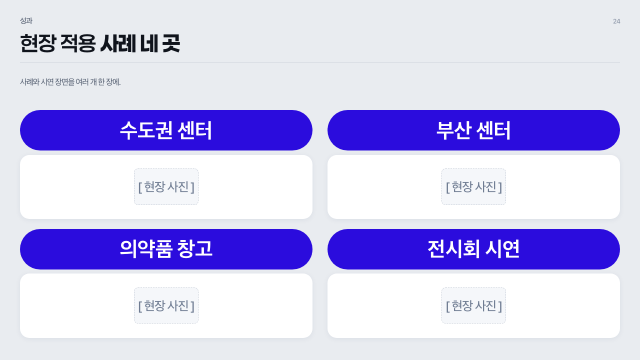
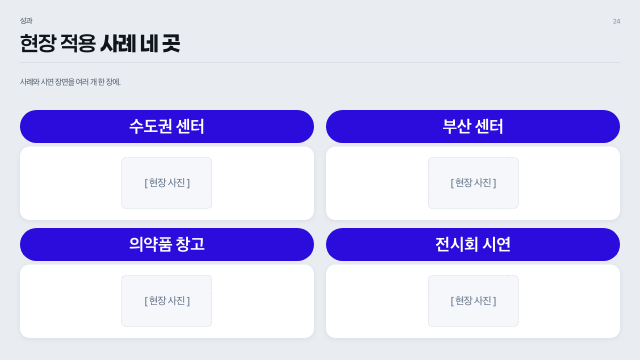
본문 배율 최대값 1.9 → 1.3: 내용이 적어도 글자가 지나치게 커지지 않게

diff --git a/docs/templates/deck.html b/docs/templates/deck.html
@@ -21,7 +21,7 @@ deck-stage:not(:defined){visibility:hidden;}
   --font-title:'Paperlogy 6 SemiBold','Pretendard','Apple SD Gothic Neo','Malgun Gothic','맑은 고딕','Noto Sans KR',sans-serif;
   --font-title-b:'Paperlogy 8 ExtraBold','Pretendard','Apple SD Gothic Neo','Malgun Gothic','맑은 고딕','Noto Sans KR',sans-serif;
   --cover-badge:#4533AF;
-  --kmax:1.9;
+  --kmax:1.3;
 }
 /* --k: per-slide body scale from fit_slides.mjs. Header/title/lead are fixed. */
 .slide{--k:1;
@@ -258,7 +258,7 @@ table.rt{width:100%;border-collapse:collapse;font-size:calc(var(--fs-table) * va
       </div>
     </div>
   </section>
-<section class="slide" data-label="1-1 냉장 물류 관제 **한 가지에 집중**하는 회사" id="s4" data-fit="1" style="--k: 1.7876953125;" style="--k:1.78">
+<section class="slide" data-label="1-1 냉장 물류 관제 **한 가지에 집중**하는 회사" id="s4" data-fit="1" style="--k: 1.3;" style="--k:1.3">
     <div class="top"><div class="eyebrow"><span>사업 개요</span><span class="pgno">4</span></div><div class="stitle">냉장 물류 관제 <b>한 가지에 집중</b>하는&nbsp;회사</div><div class="rule"></div><div class="slead">회사 소개서 첫 본문. 왼쪽은 소개, 오른쪽은 규모를 보여 주는&nbsp;수치.</div></div>
     <div class="body" style="--body-top:220px;--safe-bottom:44px"><div class="blk" style="flex:1 1 0"><div class="inner"><div class="grid" style="grid-template-columns:1fr 1fr">
       <div class="card "><div class="cap">회사&nbsp;소개</div><div class="bd">
@@ -271,7 +271,7 @@ table.rt{width:100%;border-collapse:collapse;font-size:calc(var(--fs-table) * va
       </div></div></div></div></div></div>
     
   </section>
-<section class="slide" data-label="1-2 과제 배경과 **목표 네 가지**" id="s5" data-fit="1" style="--k: 1.4822265625000002;" style="--k:1.48">
+<section class="slide" data-label="1-2 과제 배경과 **목표 네 가지**" id="s5" data-fit="1" style="--k: 1.3;" style="--k:1.3">
     <div class="top"><div class="eyebrow"><span>사업 개요</span><span class="pgno">5</span></div><div class="stitle">과제 배경과 <b>목표 네&nbsp;가지</b></div><div class="rule"></div><div class="slead">과제 배경을 목표 네 개로 묶고, 아래 배너에 기술 태그를&nbsp;둔다.</div></div>
     <div class="body" style="--body-top:220px;--safe-bottom:44px"><div class="blk" style="flex:1 1 0"><div class="inner"><div class="grid" style="grid-template-columns:repeat(2,1fr)">
       <div class="card "><div class="cap">정확도</div><div class="bd">
@@ -288,12 +288,12 @@ table.rt{width:100%;border-collapse:collapse;font-size:calc(var(--fs-table) * va
       </div></div></div></div></div><div class="blk" style="flex:0 0 auto"><div class="inner"><div class="banner"><div class="lead">기술 태그</div><div class="msg"><ul class="rl" style="--rl-gap: 0.40em;" data-gap-id="g6"><li>시계열 이상 탐지 · 규칙 엔진 · 경량&nbsp;모델</li></ul></div></div></div></div></div>
     
   </section>
-<section class="slide" data-label="1-3 관제 화면 하나로 **차량 상태를 한눈에**" id="s6" data-fit="1" style="--k: 1.9;" style="--k:1.9">
+<section class="slide" data-label="1-3 관제 화면 하나로 **차량 상태를 한눈에**" id="s6" data-fit="1" style="--k: 1.3;" style="--k:1.3">
     <div class="top"><div class="eyebrow"><span>사업 개요</span><span class="pgno">6</span></div><div class="stitle">관제 화면 하나로 <b>차량 상태를 한눈에</b></div><div class="rule"></div><div class="slead">글을 먼저 읽히고 오른쪽 화면으로 확인시킨다.</div></div>
     <div class="body" style="--body-top:220px;--safe-bottom:44px"><div class="blk" style="flex:1 1 0"><div class="inner"><div class="imgblk"><div class="txt"><div class="card tint"><div class="cap">관제 화면&nbsp;구성</div><div class="bd"><div class="fill"><ul class="rl" style="--rl-gap: 0.40em;" data-gap-id="g7"><li>차량별 온도&nbsp;곡선</li><li>위험 점수와 판정&nbsp;근거</li><li>알림&nbsp;이력</li></ul></div></div></div></div><div class="pic"><div class="fr"><div class="ph ib" style="--arw:16;--arh:9">[ 관제 화면 ]</div></div></div></div></div></div></div>
     
   </section>
-<section class="slide" data-label="1-4 운용 환경의 **세 가지 특성**" id="s7" data-fit="1" style="--k: 1.9;" style="--k:1.9">
+<section class="slide" data-label="1-4 운용 환경의 **세 가지 특성**" id="s7" data-fit="1" style="--k: 1.3;" style="--k:1.3">
     <div class="top"><div class="eyebrow"><span>사업 개요</span><span class="pgno">7</span></div><div class="stitle">운용 환경의 <b>세 가지&nbsp;특성</b></div><div class="rule"></div><div class="slead">대등한 세 가지를 카드 한&nbsp;줄로.</div></div>
     <div class="body" style="--body-top:220px;--safe-bottom:44px"><div class="blk" style="flex:1 1 0"><div class="inner"><div class="grid" style="grid-template-columns:repeat(3,1fr)">
       <div class="card "><div class="cap">온도&nbsp;변화</div><div class="bd">
@@ -318,27 +318,27 @@ table.rt{width:100%;border-collapse:collapse;font-size:calc(var(--fs-table) * va
       </div>
     </div>
   </section>
-<section class="slide" data-label="2-1 도입 전에 **결정이 필요한 세 가지**" id="s9" data-fit="1" style="--k: 1.9;" style="--k:1.9">
+<section class="slide" data-label="2-1 도입 전에 **결정이 필요한 세 가지**" id="s9" data-fit="1" style="--k: 1.3;" style="--k:1.3">
     <div class="top"><div class="eyebrow"><span>해결 방안</span><span class="pgno">9</span></div><div class="stitle">도입 전에 <b>결정이 필요한 세&nbsp;가지</b></div><div class="rule"></div><div class="slead">대등하고 짧은 항목을 순서대로. 최후의 수단으로&nbsp;쓴다.</div></div>
     <div class="body" style="--body-top:220px;--safe-bottom:44px"><div class="blk" style="flex:1 1 0"><div class="inner"><div class="card "><div class="bd"><div class="fill"><ul class="rl" style="--rl-gap: 0.40em;" data-gap-id="g11"><li>시범 운영할 차량&nbsp;범위</li><li>판정 기준 온도와 허용&nbsp;시간</li><li>알림을 받을 담당자와&nbsp;채널</li></ul></div></div></div></div></div></div>
     
   </section>
-<section class="slide" data-label="2-2 수기 점검에서 **자동 판정**으로" id="s10" data-fit="1" style="--k: 1.8416015625000002;" style="--k:1.84">
+<section class="slide" data-label="2-2 수기 점검에서 **자동 판정**으로" id="s10" data-fit="1" style="--k: 1.3;" style="--k:1.3">
     <div class="top"><div class="eyebrow"><span>해결 방안</span><span class="pgno">10</span></div><div class="stitle">수기 점검에서 <b>자동 판정</b>으로</div><div class="rule"></div><div class="slead">같은 기준으로 두 상태를 맞댄다.</div></div>
     <div class="body" style="--body-top:220px;--safe-bottom:44px"><div class="blk" style="flex:1 1 0"><div class="inner"><div class="cmp"><div class="side from"><div class="cap">AS-IS</div><div class="bd"><div class="sh">수기&nbsp;점검</div><div class="fill"><ul class="rl" style="--rl-gap: 0.40em;" data-gap-id="g12"><li>하루 두 번 기록지&nbsp;확인</li><li>이상은 다음 날&nbsp;발견</li><li>판단 근거가 남지&nbsp;않음</li></ul></div></div></div><div class="arr">›</div><div class="side to"><div class="cap">TO-BE</div><div class="bd"><div class="sh">자동&nbsp;판정</div><div class="fill"><ul class="rl" style="--rl-gap: 0.40em;" data-gap-id="g13"><li>1분 간격 자동&nbsp;수집</li><li>이상 즉시&nbsp;알림</li><li>판정 근거 자동&nbsp;기록</li></ul></div></div></div></div></div></div></div>
     
   </section>
-<section class="slide" data-label="2-3 수집부터 판정까지의 **시스템 구성**" id="s11" data-fit="1" style="--k: 1.9;" style="--k:1.9">
+<section class="slide" data-label="2-3 수집부터 판정까지의 **시스템 구성**" id="s11" data-fit="1" style="--k: 1.3;" style="--k:1.3">
     <div class="top"><div class="eyebrow"><span>해결 방안</span><span class="pgno">11</span></div><div class="stitle">수집부터 판정까지의 <b>시스템&nbsp;구성</b></div><div class="rule"></div><div class="slead">구성도 전체를 크게 놓고 관계를 보인다.</div></div>
     <div class="body" style="--body-top:220px;--safe-bottom:44px"><div class="blk" style="flex:1 1 0"><div class="inner"><div class="imgblk"><div class="pic"><div class="fr"><div class="ph ib" style="--arw:16;--arh:9">[ 차량 센서 → 수집 서버 → 판정 엔진 → 관제 화면 ]</div></div></div></div></div></div></div>
     
   </section>
-<section class="slide" data-label="2-4 위험도 산출 모듈의 **세 가지 특징**" id="s12" data-fit="1" style="--k: 1.8416015625000002;" style="--k:1.84">
+<section class="slide" data-label="2-4 위험도 산출 모듈의 **세 가지 특징**" id="s12" data-fit="1" style="--k: 1.3;" style="--k:1.3">
     <div class="top"><div class="eyebrow"><span>해결 방안</span><span class="pgno">12</span></div><div class="stitle">위험도 산출 모듈의 <b>세 가지&nbsp;특징</b></div><div class="rule"></div><div class="slead">기술 모듈 하나를 깊게. 오른쪽 그림과 아래&nbsp;배너.</div></div>
     <div class="body" style="--body-top:220px;--safe-bottom:44px"><div class="blk" style="flex:1 1 0"><div class="inner"><div class="imgblk"><div class="txt"><div class="card tint"><div class="cap">위험도&nbsp;산출</div><div class="bd"><div class="fill"><ul class="rl" style="--rl-gap: 0.40em;" data-gap-id="g14"><li>구간별 상태를 점수로</li><li>외기 온도 가중치&nbsp;반영</li><li>판정 근거를 문장으로</li></ul></div></div></div></div><div class="pic"><div class="fr"><div class="ph ib" style="--arw:16;--arh:9">[ 위험도 산출 흐름 ]</div></div></div></div></div></div><div class="blk" style="flex:0 0 auto"><div class="inner"><div class="banner"><div class="lead">적용 산업</div><div class="msg"><ul class="rl" style="--rl-gap: 0.40em;" data-gap-id="g15"><li>식품 냉장 운송 · 의약품 콜드체인</li></ul></div></div></div></div></div>
     
   </section>
-<section class="slide" data-label="2-5 기술 난제와 **대응 방안**" id="s13" data-fit="1" style="--k: 1.0689453125;" style="--k:1.06">
+<section class="slide" data-label="2-5 기술 난제와 **대응 방안**" id="s13" data-fit="1" style="--k: 1.0658203124999999;" style="--k:1.06">
     <div class="top"><div class="eyebrow"><span>해결 방안</span><span class="pgno">13</span></div><div class="stitle">기술 난제와 <b>대응&nbsp;방안</b></div><div class="rule"></div><div class="slead">난제와 해법을 맞대고 근거를 표로 받친다.</div></div>
     <div class="body" style="--body-top:220px;--safe-bottom:44px"><div class="blk" style="flex:1 1 0"><div class="inner"><div class="cmp"><div class="side from"><div class="cap">난제</div><div class="bd"><div class="sh">짧은 이상&nbsp;구간</div><div class="fill"><ul class="rl" style="--rl-gap: 0.40em;" data-gap-id="g16"><li>문 열림 1~2분</li><li>평균값에&nbsp;묻힘</li></ul></div></div></div><div class="arr">›</div><div class="side to"><div class="cap">해법</div><div class="bd"><div class="sh">구간 단위&nbsp;판정</div><div class="fill"><ul class="rl" style="--rl-gap: 0.40em;" data-gap-id="g17"><li>1분 단위 구간&nbsp;분리</li><li>구간별 누적&nbsp;점수</li></ul></div></div></div></div></div></div><div class="blk" style="flex:1 1 0"><div class="inner"><div class="tbl" style="flex:1;min-height:0;overflow:hidden"><table class="rt">
       <colgroup><col style="width:33.3%"><col style="width:33.3%"><col style="width:33.3%"></colgroup>
@@ -347,7 +347,7 @@ table.rt{width:100%;border-collapse:collapse;font-size:calc(var(--fs-table) * va
     </table></div></div></div></div>
     
   </section>
-<section class="slide" data-label="2-6 도입부터 운영까지 **네 단계**" id="s14" data-fit="1" style="--k: 1.9;" style="--k:1.9">
+<section class="slide" data-label="2-6 도입부터 운영까지 **네 단계**" id="s14" data-fit="1" style="--k: 1.3;" style="--k:1.3">
     <div class="top"><div class="eyebrow"><span>해결 방안</span><span class="pgno">14</span></div><div class="stitle">도입부터 운영까지 <b>네&nbsp;단계</b></div><div class="rule"></div><div class="slead">순서가 핵심인&nbsp;절차.</div></div>
     <div class="body" style="--body-top:220px;--safe-bottom:44px"><div class="blk" style="flex:1 1 0"><div class="inner"><div class="rm"><div class="line"></div>
       <div class="nums" style="grid-template-columns:repeat(4,1fr)"><div class="num">1</div><div class="num">2</div><div class="num">3</div><div class="num last">4</div></div>
@@ -362,12 +362,12 @@ table.rt{width:100%;border-collapse:collapse;font-size:calc(var(--fs-table) * va
         <div class="pd"><div>관제&nbsp;시작</div></div></div></div></div></div></div></div>
     
   </section>
-<section class="slide" data-label="2-7 센서 장비 **외형과 부착 위치**" id="s15" data-fit="1" style="--k: 1.9;" style="--k:1.9">
+<section class="slide" data-label="2-7 센서 장비 **외형과 부착 위치**" id="s15" data-fit="1" style="--k: 1.3;" style="--k:1.3">
     <div class="top"><div class="eyebrow"><span>해결 방안</span><span class="pgno">15</span></div><div class="stitle">센서 장비 <b>외형과 부착&nbsp;위치</b></div><div class="rule"></div><div class="slead">그림이 주인공이고 글은&nbsp;보조.</div></div>
     <div class="body" style="--body-top:220px;--safe-bottom:44px"><div class="blk" style="flex:1 1 0"><div class="inner"><div class="imgblk"><div class="pic"><div class="fr"><div class="ph ib" style="--arw:16;--arh:9">[ 센서 장비 사진 ]</div></div></div><div class="txt"><div class="card tint"><div class="cap">부착&nbsp;위치</div><div class="bd"><div class="fill"><ul class="rl" style="--rl-gap: 0.40em;" data-gap-id="g18"><li>적재함 안쪽&nbsp;상단</li><li>문 가까운 쪽 1개&nbsp;추가</li></ul></div></div></div></div></div></div></div></div>
     
   </section>
-<section class="slide" data-label="2-8 자금 사용처와 **다음 계획**" id="s16" data-fit="1" style="--k: 1.9;" style="--k:1.9">
+<section class="slide" data-label="2-8 자금 사용처와 **다음 계획**" id="s16" data-fit="1" style="--k: 1.3;" style="--k:1.3">
     <div class="top"><div class="eyebrow"><span>해결 방안</span><span class="pgno">16</span></div><div class="stitle">자금 사용처와 <b>다음&nbsp;계획</b></div><div class="rule"></div><div class="slead">두 항목을 같은 비중으로 나란히.</div></div>
     <div class="body" style="--body-top:220px;--safe-bottom:44px"><div class="blk" style="flex:1 1 0"><div class="inner"><div class="grid" style="grid-template-columns:1fr 1fr">
       <div class="card "><div class="cap">자금 사용처</div><div class="bd">
@@ -391,7 +391,7 @@ table.rt{width:100%;border-collapse:collapse;font-size:calc(var(--fs-table) * va
       </div>
     </div>
   </section>
-<section class="slide" data-label="3-1 1년 안에 **전국 거점으로 확대**" id="s18" data-fit="1" style="--k: 1.9;" style="--k:1.9">
+<section class="slide" data-label="3-1 1년 안에 **전국 거점으로 확대**" id="s18" data-fit="1" style="--k: 1.3;" style="--k:1.3">
     <div class="top"><div class="eyebrow"><span>추진 계획</span><span class="pgno">18</span></div><div class="stitle">1년 안에 <b>전국 거점으로&nbsp;확대</b></div><div class="rule"></div><div class="slead">시점과 그때 끝낼 일을 보인다.</div></div>
     <div class="body" style="--body-top:220px;--safe-bottom:44px"><div class="blk" style="flex:1 1 0"><div class="inner"><div class="rm"><div class="line"></div>
       <div class="nums" style="grid-template-columns:repeat(4,1fr)"><div class="num">1</div><div class="num">2</div><div class="num">3</div><div class="num last">4</div></div>
@@ -406,7 +406,7 @@ table.rt{width:100%;border-collapse:collapse;font-size:calc(var(--fs-table) * va
         <div class="pd"><ul class="rl" style="--rl-gap:0.90em"><li>5개&nbsp;거점</li></ul></div></div></div></div></div></div></div>
     
   </section>
-<section class="slide" data-label="3-2 기존 방식 대비 **모든 지표 개선**" id="s19" data-fit="1" style="--k: 1.7337890625;" style="--k:1.73">
+<section class="slide" data-label="3-2 기존 방식 대비 **모든 지표 개선**" id="s19" data-fit="1" style="--k: 1.3;" style="--k:1.3">
     <div class="top"><div class="eyebrow"><span>추진 계획</span><span class="pgno">19</span></div><div class="stitle">기존 방식 대비 <b>모든 지표&nbsp;개선</b></div><div class="rule"></div><div class="slead">여러 기준으로 맞대어 비교한다.</div></div>
     <div class="body" style="--body-top:220px;--safe-bottom:44px"><div class="blk" style="flex:1 1 0"><div class="inner"><div class="tbl" style="flex:1;min-height:0;overflow:hidden"><table class="rt">
       <colgroup><col style="width:26.5%"><col style="width:26.5%"><col style="width:26.5%"><col style="width:20.6%"></colgroup>
@@ -415,7 +415,7 @@ table.rt{width:100%;border-collapse:collapse;font-size:calc(var(--fs-table) * va
     </table></div></div></div></div>
     
   </section>
-<section class="slide" data-label="3-3 과제를 맡을 **핵심 인력 네 명**" id="s20" data-fit="1" style="--k: 1.9;" style="--k:1.9">
+<section class="slide" data-label="3-3 과제를 맡을 **핵심 인력 네 명**" id="s20" data-fit="1" style="--k: 1.3;" style="--k:1.3">
     <div class="top"><div class="eyebrow"><span>추진 계획</span><span class="pgno">20</span></div><div class="stitle">과제를 맡을 <b>핵심 인력 네&nbsp;명</b></div><div class="rule"></div><div class="slead">사람과 역할을 한 줄로. 사진은 넣지 않는다.</div></div>
     <div class="body" style="--body-top:220px;--safe-bottom:44px"><div class="blk" style="flex:1 1 0"><div class="inner"><div class="grid" style="grid-template-columns:repeat(4,1fr)">
       <div class="card "><div class="cap">홍길동</div><div class="bd">
@@ -443,17 +443,17 @@ table.rt{width:100%;border-collapse:collapse;font-size:calc(var(--fs-table) * va
       </div>
     </div>
   </section>
-<section class="slide" data-label="4-1 시범 운영 3개월 **핵심 수치**" id="s22" data-fit="1" style="--k: 1.9;" style="--k:1.9">
+<section class="slide" data-label="4-1 시범 운영 3개월 **핵심 수치**" id="s22" data-fit="1" style="--k: 1.3;" style="--k:1.3">
     <div class="top"><div class="eyebrow"><span>성과</span><span class="pgno">22</span></div><div class="stitle">시범 운영 3개월 <b>핵심&nbsp;수치</b></div><div class="rule"></div><div class="slead">핵심 숫자를 크게 보여 한 번에 읽힌다.</div></div>
     <div class="body" style="--body-top:220px;--safe-bottom:44px"><div class="blk" style="flex:1 1 0"><div class="inner"><div class="grid" style="grid-template-columns:repeat(3,1fr)"><div class="stat"><div class="cap">상한&nbsp;반품</div><div class="bd"><div class="sv">1<small>건</small></div><div class="sn">이전 분기&nbsp;9건</div></div></div><div class="stat"><div class="cap">감지&nbsp;시간</div><div class="bd"><div class="sv">48<small>초</small></div><div class="sn">평균, 알림까지</div></div></div><div class="stat"><div class="cap">관제&nbsp;인원</div><div class="bd"><div class="sv">2<small>명</small></div><div class="sn">4명에서 절반으로</div></div></div></div></div></div></div>
     
   </section>
-<section class="slide" data-label="4-2 고객이 말한 **가장 큰 변화**" id="s23" data-fit="1" style="--k: 1.9;" style="--k:1.9">
+<section class="slide" data-label="4-2 고객이 말한 **가장 큰 변화**" id="s23" data-fit="1" style="--k: 1.3;" style="--k:1.3">
     <div class="top"><div class="eyebrow"><span>성과</span><span class="pgno">23</span></div><div class="stitle">고객이 말한 <b>가장 큰&nbsp;변화</b></div><div class="rule"></div><div class="slead">한 문장을 배너로 남긴다.</div></div>
     <div class="body" style="--body-top:220px;--safe-bottom:44px"><div class="blk" style="flex:0 0 auto"><div class="inner"><div class="banner"><div class="lead">고객 의견</div><div class="msg">아침마다 기록지를 넘기던 일이 없어졌고, 문제가 생기면 바로 압니다.</div></div></div></div></div>
     
   </section>
-<section class="slide" data-label="4-3 현장 적용 **사례 네 곳**" id="s24" data-fit="1" style="--k: 1.6;" style="--k:1.6">
+<section class="slide" data-label="4-3 현장 적용 **사례 네 곳**" id="s24" data-fit="1" style="--k: 1.3;" style="--k:1.3">
     <div class="top"><div class="eyebrow"><span>성과</span><span class="pgno">24</span></div><div class="stitle">현장 적용 <b>사례 네&nbsp;곳</b></div><div class="rule"></div><div class="slead">사례와 시연 장면을 여러 개 한&nbsp;장에.</div></div>
     <div class="body" style="--body-top:220px;--safe-bottom:44px"><div class="blk" style="flex:1 1 0"><div class="inner"><div class="grid" style="grid-template-columns:1fr 1fr">
       <div class="card "><div class="cap">수도권&nbsp;센터</div><div class="bd">
@@ -474,7 +474,7 @@ table.rt{width:100%;border-collapse:collapse;font-size:calc(var(--fs-table) * va
       </div></div></div></div></div></div>
     
   </section>
-<section class="slide" data-label="4-4 함께하는 **고객과 파트너**" id="s25" data-fit="1" style="--k: 1.83;" style="--k:1.83">
+<section class="slide" data-label="4-4 함께하는 **고객과 파트너**" id="s25" data-fit="1" style="--k: 1.3;" style="--k:1.3">
     <div class="top"><div class="eyebrow"><span>성과</span><span class="pgno">25</span></div><div class="stitle">함께하는 <b>고객과 파트너</b></div><div class="rule"></div><div class="slead">로고를 한 번에. 파일이 없으면 자리표시자.</div></div>
     <div class="body" style="--body-top:220px;--safe-bottom:44px"><div class="blk" style="flex:1 1 0"><div class="inner"><div class="grid" style="grid-template-columns:1fr 1fr 1fr">
       <div class="card "><div class="cap">고객사</div><div class="bd">

diff --git a/docs/preview-shim.js b/docs/preview-shim.js
@@ -4,7 +4,11 @@
    답을 돌려준다. 앱 코드는 한 줄도 고치지 않는다.
 
    되는 것: 설정, 입력, 미리 만들어 둔 예시 불러오기.
-   안 되는 것: AI 로 새로 만들기, 파일 올리기, 기존 PPTX 읽기. 서버가 있어야 한다. */
+   안 되는 것: AI 로 새로 만들기, 파일 올리기, 기존 PPTX 읽기. 서버가 있어야 한다.
+
+   단, 내 컴퓨터에서 ./start.sh 로 서버를 켜 두면 그 서버(127.0.0.1:3790)를 찾아
+   모든 물음을 그쪽으로 넘긴다. 그러면 이 웹 화면에서도 Claude Code CLI 로 바로 만든다.
+   다른 번호로 켰으면 주소 뒤에 ?local=http://127.0.0.1:번호 를 붙인다. */
 (function () {
   const REAL = window.fetch.bind(window);
   const BASE = new URL('.', location.href).href;   // 이 페이지가 놓인 곳
@@ -15,6 +19,38 @@
   const TOKENS = 'https://raw.githubusercontent.com/hy0909/ppt-maker/main/skills/ppt-maker/design-tokens.json';
 
   const at = p => new URL(p, BASE).href;
+
+  /* 내 컴퓨터의 서버를 찾는다. 있으면 그 주소, 없으면 null. */
+  const LOCAL_URL = (new URLSearchParams(location.search).get('local') || 'http://127.0.0.1:3790').replace(/\/+$/, '');
+  const LOCAL = (async () => {
+    try {
+      const r = await REAL(LOCAL_URL + '/api/status', { signal: AbortSignal.timeout(2500), cache: 'no-store' });
+      return r.ok ? LOCAL_URL : null;
+    } catch { return null; }
+  })();
+  /* 서버가 돌려준 /ws/... 같은 주소를 내 컴퓨터 주소로 바꾼다. */
+  const absolutize = (o, base) => {
+    for (const k of ['preview', 'pdf', 'pptx']) if (typeof o?.[k] === 'string' && o[k].startsWith('/')) o[k] = base + o[k];
+    return o;
+  };
+  async function viaLocal(base, path, init) {
+    const r = await REAL(base + path, init);
+    if (!(r.headers.get('Content-Type') || '').includes('application/json')) return r;
+    const body = absolutize(await r.json(), base);
+    return new Response(JSON.stringify(body), { status: r.status, headers: { 'Content-Type': 'application/json; charset=utf-8' } });
+  }
+  /* 연결되면 위쪽 안내 띠를 바꾼다. */
+  LOCAL.then(base => {
+    if (!base) return;
+    const paint = () => {
+      const note = document.querySelector('.pv-note');
+      if (!note) return;
+      note.classList.add('pv-live');
+      note.innerHTML = '<span><b>내 컴퓨터의 PPT MAKER 서버에 연결됐습니다.</b> AI 생성·파일 올리기·PPTX 만들기가 모두 '
+        + base + ' 에서 돕니다. 만든 파일도 내 컴퓨터에만 남습니다.</span>';
+    };
+    document.readyState === 'loading' ? document.addEventListener('DOMContentLoaded', paint) : paint();
+  });
   const ok = body => new Response(
     typeof body === 'string' ? body : JSON.stringify(body),
     { status: 200, headers: { 'Content-Type': typeof body === 'string'
@@ -23,7 +59,8 @@
   /* 서버가 없어서 못 하는 일. 앱은 응답의 error 를 화면에 띄운다. */
   const nope = what => ok({
     error: what + ' 둘러보기 화면에서는 안 됩니다. 뒤에서 일할 서버가 없습니다.\n\n'
-         + '내 컴퓨터에서 켜면 Claude 나 GPT 중 아무거나 붙여 쓸 수 있습니다.\n'
+         + '내 컴퓨터에서 ./start.sh 로 서버를 켜고 이 화면을 새로고침하면\n'
+         + '이 화면에서 바로 Claude Code CLI(또는 API 키)로 만들 수 있습니다.\n'
          + '연결 방법: ' + new URL('setup/', BASE).href + '\n'
          + '내려받기: ' + REPO + '\n\n'
          + '키 없이 쓰려면 아래 «프롬프트 복사» 로 프롬프트를 가져가\n'
@@ -50,6 +87,9 @@
 
     const u = new URL(url, location.href);
     const p = u.pathname.replace(/^.*?(\/api\/)/, '$1');   // 어느 폴더에 올라가도 맞게
+
+    const base = await LOCAL;
+    if (base) return viaLocal(base, p + u.search, args[1]);
 
     if (p === '/api/status')    return ok({ hasCreds: false, backend: 'none',
                                             projects: [{ name: DEMO, built: true }] });

diff --git a/docs/index.html b/docs/index.html
@@ -224,8 +224,9 @@ details[open]>summary::before{content:'▾ '}
 .pv-note span{flex:1}
 .pv-note a{color:inherit;text-decoration:underline;text-underline-offset:2px}
 .pv-note .pv-link{white-space:nowrap;font-weight:600}
+.pv-note.pv-live{background:hsl(142 70% 40%/.12);border-bottom-color:hsl(142 70% 40%/.35);color:hsl(142 60% 20%)}
 @media (max-width:720px){.pv-note{flex-direction:column;align-items:flex-start;gap:6px}}
-</style><script src="preview-shim.js"></script></head>
+</style><script src="preview-shim.js?v=local1"></script></head>
 <body>
 <div class="pv-note">
   <span>

diff --git a/docs/design/index.html b/docs/design/index.html
@@ -777,8 +777,8 @@ function buildSections(){
   buildBodyType();
 
   table($('#s-k'),[
-    {tok:'--k', name:'본문 배율', sub:'dense 최대 1.9 · airy 최대 1.5 · 최소 0.75',
-      fields:[{key:'k',unit:'×',step:0.05,min:0.75,max:1.9,
+    {tok:'--k', name:'본문 배율', sub:'최대 1.3 · 최소 0.75',
+      fields:[{key:'k',unit:'×',step:0.05,min:0.75,max:1.3,
         alt:function(v){return '· 본문 '+(dens().body*v).toFixed(1)+'px'}}],
       preview:pvBox(function(d){d.innerHTML='<ul class="rl"><li>배율을 따라 같이 커진다</li></ul>'})}
   ]);

diff --git a/skills/ppt-maker/app/design-system.html b/skills/ppt-maker/app/design-system.html
@@ -777,8 +777,8 @@ function buildSections(){
   buildBodyType();
 
   table($('#s-k'),[
-    {tok:'--k', name:'본문 배율', sub:'dense 최대 1.9 · airy 최대 1.5 · 최소 0.75',
-      fields:[{key:'k',unit:'×',step:0.05,min:0.75,max:1.9,
+    {tok:'--k', name:'본문 배율', sub:'최대 1.3 · 최소 0.75',
+      fields:[{key:'k',unit:'×',step:0.05,min:0.75,max:1.3,
         alt:function(v){return '· 본문 '+(dens().body*v).toFixed(1)+'px'}}],
       preview:pvBox(function(d){d.innerHTML='<ul class="rl"><li>배율을 따라 같이 커진다</li></ul>'})}
   ]);

diff --git a/skills/ppt-maker/references/outline-schema.md b/skills/ppt-maker/references/outline-schema.md
@@ -78,7 +78,7 @@
 ## 자동으로 처리되는 것
 
 - **색**: `brand.primary` 하나에서 primaryDark / primaryLight / tint / dark(간지·표지 배경) 파생. `secondary`는 포인트(표지 띠, 간지 번호).
-- **글자 크기**: `fit_slides.mjs`가 장표마다 본문 배율 `--k`를 계산해 빈 공간을 채운다(dense 최대 1.9, airy 최대 1.5). 헤더 바·제목·리드는 고정 크기. 내용이 넘치면 0.75까지 줄이고, 그래도 넘치면 경고 → 장표를 나눈다.
+- **글자 크기**: `fit_slides.mjs`가 장표마다 본문 배율 `--k`를 계산해 빈 공간을 채운다(최대 1.3, dense·airy 같음 — 내용이 적으면 남는 공간은 여백으로 둔다). 헤더 바·제목·리드는 고정 크기. 내용이 넘치면 0.75까지 줄이고, 그래도 넘치면 경고 → 장표를 나눈다.
 - **상단**: 헤더 바 없음. 아이브로우(목차 이름만) + 페이지 번호, 헤드라인, 구분선, lead. (구 헤더 바 설명: 왼쪽 태그(`i · 2` 형식, 부록은 `APPENDIX`, 목차는 `CONTENTS`) + `header`(없으면 섹션명) + `subtitle` + 오른쪽 흰 로고. 표지·간지·마무리에는 없음.
 - **표지**: `coverBg` 로 고른 그림 하나. 짝이 되는 간지 그림이 있는 배경(`haze`)을 고르면 간지 배경도 같이 바뀐다. 마무리는 늘 그라데이션. 표지는 `subtitle`(설명줄) → `title`(제목) → 왼쪽 아래 로고 → 오른쪽 아래 상자(`event`) 네 덩어리다. pill·docType 박스·기관 칸·기간/날짜는 표지에 넣지 않는다.
 - **목차**: 연회색 배경에 왼쪽 위 `목차`, 오른쪽에 번호(1·2·3) + 섹션명 2열. 쪽수·설명은 적지 않는다. **간지**: 포인트 컬러 그라디언트 배경 + CHAPTER 0N + 섹션명 60px + 로고 워터마크.

diff --git a/skills/ppt-maker/references/outline-templates.md b/skills/ppt-maker/references/outline-templates.md
@@ -108,7 +108,7 @@
 | 본문 시작 | 리드 1줄이면 y 220, 리드가 늘면 그만큼 내려감 |
 | 맨 아래 배너 | 있음 / 없음 |
 | 출처·각주(아래에서 13px) | 없음 / 각주 1줄 / 각주 + 출처 2줄 |
-| 읽는 방식 | dense 배율 최대 1.9 / airy 최대 1.5 |
+| 읽는 방식 | 배율 최대 1.3 (dense·airy 같음) |
 
 표지·목차·간지·마무리 4종은 `outline.json`의 `meta`만으로 자동 생성되고, 나머지는 본문 장표의 `blocks`로 만든다.
 블록 필드는 `outline-schema.md`의 "블록 타입" 표를 따른다. 목차표 레이아웃 칸의 번호(`09 카드3` 등)는 이 표의 번호다.
